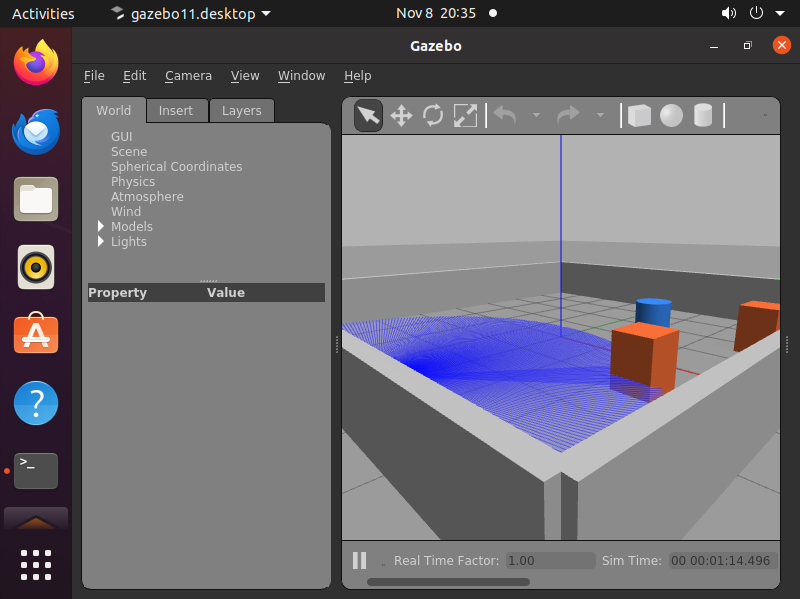
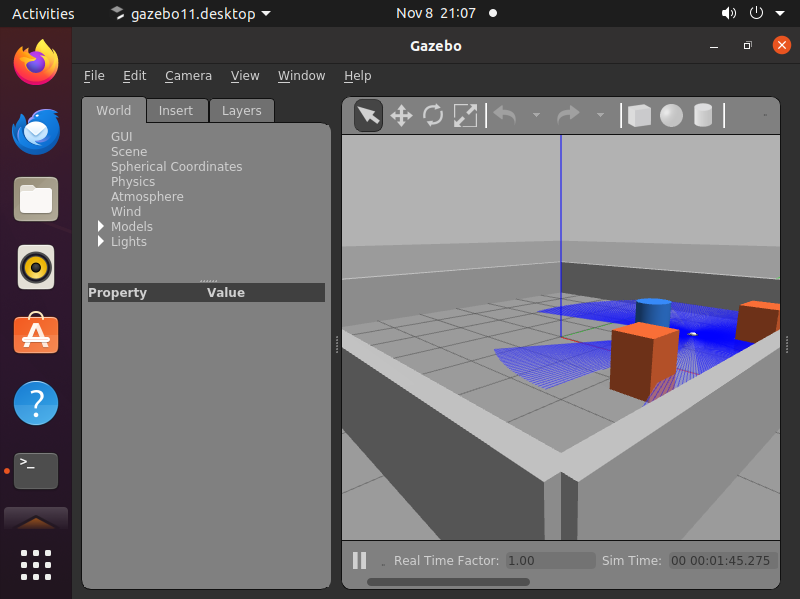
fix(ground): 差速插件改用 ROS1 合法参数 wheelTorque/wheelAcceleration，补齐 updateRate/odometrySource/publishTf 消除启动 WARN

Changed region(s): [[0.4062, 0.4808, 0.9375, 0.7513], [0.9062, 0.9316, 0.9688, 0.9616], [0.5625, 0.0, 0.5938, 0.0301]]

diff --git a/tests/test_mbot_lidar_avoid.py b/tests/test_mbot_lidar_avoid.py
@@ -404,20 +404,35 @@ def test_urdf_diff_drive_uses_ros1_camel_case():
     # 必须出现的 ROS 1 驼峰参数
     ros1_keys = {
         'leftJoint', 'rightJoint', 'wheelSeparation', 'wheelDiameter',
+        'wheelTorque', 'wheelAcceleration', 'updateRate', 'odometrySource',
         'commandTopic', 'odometryTopic', 'odometryFrame', 'robotBaseFrame',
-        'publishOdom', 'publishOdomTF', 'publishWheelTF',
+        'publishOdomTF', 'publishWheelTF', 'publishTf',
+        'publishWheelJointState', 'rosDebugLevel',
     }
     for key in ros1_keys:
         assert diff.find(key) is not None, 'diff_drive 缺少 ROS 1 参数 <%s>' % key
+
+    # 参数值必须真的写进 URDF，否则插件会退回默认值（扭矩 5 / 加速度 0）
+    assert diff.find('wheelTorque').text == '10'
+    assert diff.find('wheelAcceleration').text == '3.0'
+    assert diff.find('updateRate').text == '100'
+    assert diff.find('odometrySource').text == 'world'
 
     # 禁止出现的 ROS 2 snake_case 参数
     ros2_keys = {
         'left_joint', 'right_joint', 'wheel_separation', 'wheel_diameter',
         'command_topic', 'odometry_topic', 'odometry_frame', 'robot_base_frame',
         'publish_odom', 'publish_odom_tf', 'publish_wheel_tf',
+        'max_wheel_torque', 'max_wheel_acceleration', 'update_rate',
+        'odometry_source',
     }
     for key in ros2_keys:
         assert diff.find(key) is None, 'diff_drive 不应使用 ROS 2 参数 <%s>' % key
+
+    # 这些不是 ROS 1 插件的合法参数，写进去会被静默忽略
+    invalid_keys = {'maxWheelTorque', 'maxWheelAcceleration', 'publishOdom'}
+    for key in invalid_keys:
+        assert diff.find(key) is None, 'diff_drive 含无效参数 <%s>' % key
 
 
 def test_urdf_has_base_footprint():

diff --git a/docs/ground/mbot_lidar_avoid.md b/docs/ground/mbot_lidar_avoid.md
@@ -225,13 +225,56 @@ MBOT_LAUNCH_TEST=1 python3 -m pytest tests/test_mbot_lidar_avoid_launch.py -v
 
 ## 11. 运行效果
 
-以下截图来自另一台 Ubuntu 20.04 + ROS Noetic + Gazebo 11 虚拟机的真实运行：
+以下截图来自 Ubuntu 20.04 + ROS Noetic + Gazebo 11 虚拟机的真实运行（`roslaunch mbot_gazebo_lidar_avoid main.launch`）：
 
 ![避障运行截图](./mbot_lidar_avoid_run.png)
 
-- 左侧为 Gazebo 场景（Mbot 差速底盘 + 顶部激光雷达）
-- 右侧为 `rqt_graph` 节点图，可见 `/mbot_lidar_avoid_node` 订阅 `/scan`、发布 `/cmd_vel`
-- 终端日志显示节点正常运行，无 `Required attribute[filename]` 或 KDL 警告
+截图只包含 Gazebo 窗口：封闭场地、三块障碍物，以及机器人顶部激光雷达的蓝色扫描扇形
+（URDF 中 `<visualize>true</visualize>` 的效果），底部状态栏 `Real Time Factor: 1.00`、
+`Sim Time: 00:01:45.275`。此截图不含 `rqt_graph` 与终端窗口。
+
+同一台机器上的启动日志与话题实测（`roslaunch` 启动后采集）：
+
+```text
+$ grep -c WARN /tmp/launch.log
+0
+$ grep -E 'ERROR|KDL' /tmp/launch.log
+（无输出）
+
+$ rostopic list | grep -E 'scan|odom|cmd_vel|tf'
+/cmd_vel
+/odom
+/scan
+/tf
+/tf_static
+
+$ timeout 8 rostopic hz /scan | tail -2
+average rate: 10.000
+	min: 0.095s max: 0.105s std dev: 0.00114s window: 76
+
+$ rostopic echo -n 1 /odom
+header:
+  seq: 6898
+  stamp:
+    secs: 69
+    nsecs: 302000000
+  frame_id: "odom"
+child_frame_id: "base_footprint"
+
+$ timeout 5 rosrun tf tf_echo odom base_link | tail -6
+- Translation: [1.503, -3.410, 0.110]
+- Rotation: in Quaternion [-0.000, -0.000, 0.011, 1.000]
+```
+
+`WARN` 计数为 0，说明差速插件已按 ROS 1 参数名完整配置：`wheelTorque` 10、`wheelAcceleration` 3.0、
+`updateRate` 100、`odometrySource` world、`publishTf` 1、`publishWheelJointState` false、
+`publishOdomTF` / `publishWheelTF` true、`rosDebugLevel` na。若写成 `maxWheelTorque` /
+`maxWheelAcceleration` / `publishOdom`（ROS 1 插件并不识别这些名字），插件会退回默认扭矩 5、
+默认加速度 0，并逐项打印 `missing <wheelTorque> default is 5` 之类的 WARN。
+
+TF 树为 `odom -> base_footprint -> base_link -> laser_link`：`publishOdomTF` 由差速插件发布
+`odom -> base_footprint`（`robotBaseFrame` 设为 `base_footprint`），`robot_state_publisher`
+再发布 `base_footprint -> base_link` 等固定关节，因此 `base_link` 不会出现两个父坐标系。
 
 端到端集成测试输出（`MBOT_LAUNCH_TEST=1`）：
 
@@ -243,7 +286,7 @@ PASS  test_urdf_valid_with_check_urdf
 PASS  test_launch_nodes_resolvable
 PASS  test_gazebo_topics_end_to_end
 
-结果: 6 通过, 0 跳过, 0 失败
+6 passed in 15.35 seconds
 ```
 
 `test_gazebo_topics_end_to_end` 会真实启动 headless Gazebo，确认 `/scan`、`/odom` 有数据，发 `cmd_vel` 直行 3 秒后 `/odom` 位移增长 > 0.01 m，验证驱动插件与避障节点工作正常。
